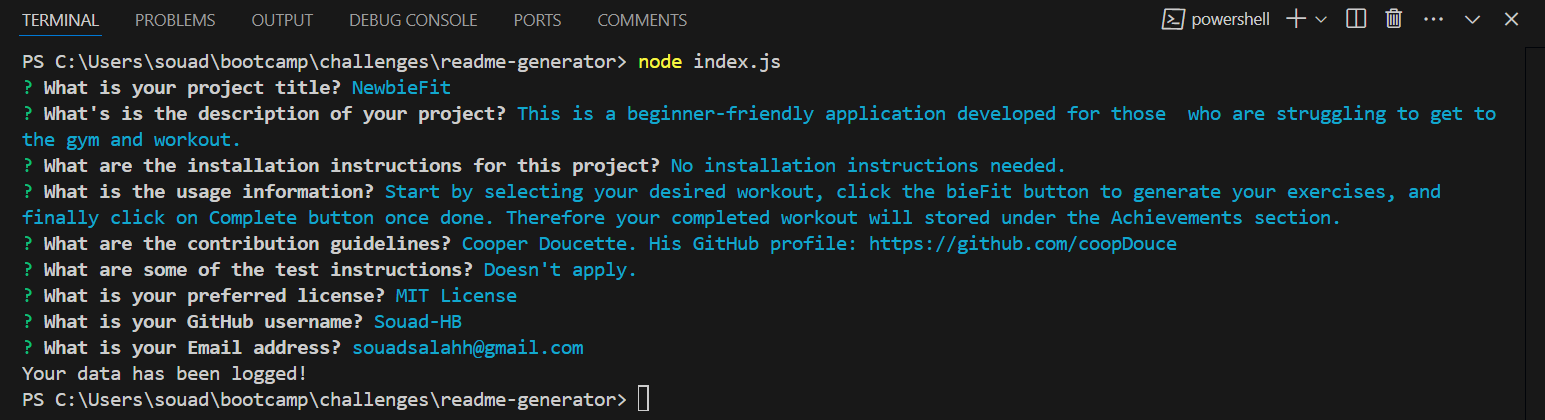
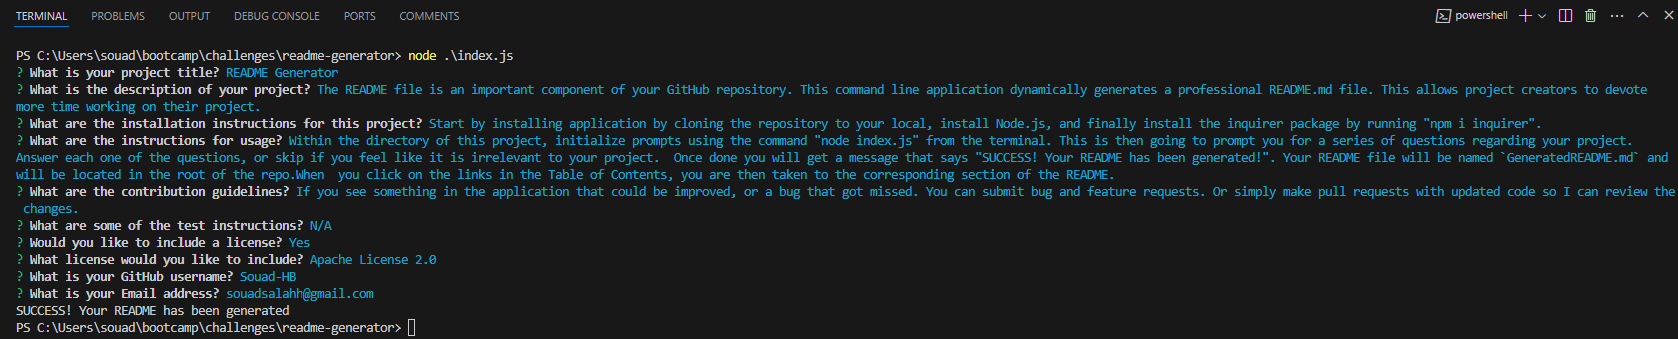
finished the readme and enhanced code

diff --git a/utils/generateMarkdown.js b/utils/generateMarkdown.js
@@ -2,25 +2,28 @@
 // If there is no license, return an empty string
 function renderLicenseBadge(license) {
   let licenseBadge;
-  if (license === 'MIT License') {
-    licenseBadge = '![License: MIT](https://img.shields.io/badge/License-MIT-yellow.svg)';
-  } else if (license === 'GNU General Public License (GPL)') {
-    licenseBadge = '![License: GPL v3](https://img.shields.io/badge/License-GPL%20v3-blue.svg)';
-  } else if (license === 'Apache License 2.0') {
-    licenseBadge = '![License](https://img.shields.io/badge/License-Apache%202.0-blue.svg)';
-  } else if (license === 'BSD Licenses') {
-    licenseBadge = '![License](https://img.shields.io/badge/License-BSD%203--Clause-blue.svg)';
-  } else if (license === 'Creative Commons Licenses') {
-    licenseBadge = '![License: CC BY 4.0](https://licensebuttons.net/l/by/4.0/80x15.png)';
-  } else if (license === 'Mozilla Public License 2.0 (MPL 2.0)') {
-    licenseBadge = '![License](https://img.shields.io/badge/License-MPL%202.0-brightgreen.svg)';
-  } else if (license === 'Eclipse Public License (EPL)') {
-    licenseBadge = '![License](https://img.shields.io/badge/License-EPL%201.0-red.svg)';
-  } else if (license === 'none') {
-    licenseBadge = '';
+  if (!license) {
+    return ``;
   }
-
-  return licenseBadge;
+  else {
+    if (license === 'MIT License') {
+      licenseBadge = `[![License: MIT](https://img.shields.io/badge/License-MIT-yellow.svg)](${renderLicenseLink(license)})`;
+    } else if (license === 'GNU General Public License (GPL)') {
+      licenseBadge = `[![License: GPL v3](https://img.shields.io/badge/License-GPL%20v3-blue.svg)](${renderLicenseLink(license)})`;
+    } else if (license === 'Apache License 2.0') {
+      licenseBadge = `[![License](https://img.shields.io/badge/License-Apache%202.0-blue.svg)](${renderLicenseLink(license)})`;
+    } else if (license === 'BSD Licenses') {
+      licenseBadge = `[![License](https://img.shields.io/badge/License-BSD%203--Clause-blue.svg)](${renderLicenseLink(license)})`;
+    } else if (license === 'Creative Commons Licenses') {
+      licenseBadge = `[![License: CC BY 4.0](https://img.shields.io/badge/License-CC%20BY%204.0-lightgrey.svg)](${renderLicenseLink(license)})`;
+    } else if (license === 'Mozilla Public License 2.0 (MPL 2.0)') {
+      licenseBadge = `[![License](https://img.shields.io/badge/License-MPL%202.0-brightgreen.svg)](${renderLicenseLink(license)})`;
+    } else if (license === 'Eclipse Public License (EPL)') {
+      licenseBadge = `[![License](https://img.shields.io/badge/License-EPL%201.0-red.svg)](${renderLicenseLink(license)})`;
+    }
+    return licenseBadge
+  }
+  ;
 }
 
 // Function that returns the license link
@@ -48,23 +51,18 @@ function renderLicenseLink(license) {
   else if (license === 'Eclipse Public License (EPL)') {
     licenseLink = 'https://opensource.org/licenses/EPL-1.0';
   }
-  else if (license === 'none') {
-    licenseLink = '';
-  }
-
   return licenseLink;
 }
 
 // Function that returns the license section of README
 // If there is no license, return an empty string
 function renderLicenseSection(license) {
-  const licenseLink = renderLicenseLink(license);
-  if (license === 'none') {
-    return '';
+  if (!license) {
+    return ``;
   }
   else {
-    return `This project is licensed under the ${license}. See the link for details: ${licenseLink}`;
-}
+    return `This project is licensed under the ${license}. To learn more about this means, click the license button at the top.`;
+  }
 }
 
 // Function to generate markdown for README
@@ -92,7 +90,6 @@ ${data.installation}
 ## Usage
 
 ${data.usage}
-
 
 ## License
 

diff --git a/index.js b/index.js
@@ -2,16 +2,18 @@
 import inquirer from 'inquirer';
 import fs from 'fs';
 import generateMarkdown from './utils/generateMarkdown.js';
-const fileName = 'SampleREADME.md';
+const fileName = 'GeneratedREADME.md';
+
 // Array of questions for user input
 const questions = [
     "What is your project title?",
-    "What's is the description of your project?",
+    "What is the description of your project?",
     "What are the installation instructions for this project?",
-    "What is the usage information?",
+    "What are the instructions for usage?",
     "What are the contribution guidelines?",
     "What are some of the test instructions?",
-    "What is your preferred license?",
+    "Would you like to include a license?",
+    "What license would you like to include?",
     "What is your GitHub username?",
     "What is your Email address?",
 ];
@@ -19,7 +21,7 @@ const questions = [
 // Function to write README file
 function writeToFile(fileName, data) {
     fs.writeFile(fileName,(data), (err) => 
-        err ? console.error(err) : console.log('Your data has been logged!')); 
+        err ? console.error(err) : console.log('SUCCESS! Your README has been generated')); 
 }
 
 // Function to initialize app
@@ -57,19 +59,32 @@ function init() {
             name: 'tests',
         },
         {
-            type: 'list',
+            type: 'confirm',
             message: questions[6],
-            choices: ['MIT License', 'GNU General Public License (GPL)', 'Apache License 2.0', 'BSD Licenses', 'Creative Commons Licenses', 'Mozilla Public License 2.0 (MPL 2.0)', 'Eclipse Public License (EPL)', 'none'], 
-            name: 'license',
+            name: 'confirmLicense',
+            default: false,
         },
         {
-            type: 'input',
+            type: 'list',
             message: questions[7],
-            name: 'github',
+            choices: ['MIT License', 'GNU General Public License (GPL)', 'Apache License 2.0', 'BSD Licenses', 'Creative Commons Licenses', 'Mozilla Public License 2.0 (MPL 2.0)', 'Eclipse Public License (EPL)'], 
+            name: 'license',
+            when: ({confirmLicense}) => {
+                if (confirmLicense) {
+                    return true;
+                } else {
+                    return false;
+                }
+            }
         },
         {
             type: 'input',
             message: questions[8],
+            name: 'github',
+        },
+        {
+            type: 'input',
+            message: questions[9],
             name: 'email',
         },
     ])

diff --git a/README.md b/README.md
@@ -1,29 +1,27 @@
-# README-Generator
+# README Generator
 
 ## Description
-This command line application dynamically generates a professional README.md file.This allows project creators to devote more time working on their project. 
-Check out the `SampleREADME.md` in this repository as an example.
+The README file is an important component of your GitHub repository. This command line application dynamically generates a professional README.md file. This allows project creators to devote more time working on their project. 
 
 ## Installation
-- Install the application by cloning the repo down to your local.
+- Install the application by cloning the repository to your local.
 - Install Node.js
 - Install the inquirer package using "npm i inquirer" from the terminal on the application folder's path.
 
 ## Usage
-- Make sure you are under the path of the application's folder and run: "node index.js"
-- This is then going to prompt you for a series of questions regarding your project. Answer each one of the questions. or skip if you feel like it is irrelevant to your project. 
-- Once done you will get a message that says "Your data has been logged!". 
-- Your README file will be named `SampleREADME.md` and will be located in the root of the repo.
+- Within the directory of this project, initialize prompts using the command "node index.js" from the terminal.
+- This is then going to prompt you for a series of questions regarding your project. Answer each one of the questions, or skip if you feel like it is irrelevant to your project. 
+- Once done you will get a message that says "SUCCESS! Your README has been generated!". 
+- Your README file will be named `GeneratedREADME.md` and will be located in the root of the repo.
 - When you click on the links in the Table of Contents, you are then taken to the corresponding section of the README.
 
-The below screenshots elaborate on what questions are prompted, how a sample README file can be generated and where it is located.
-
+The below screenshot elaborates on what questions can be prompted. A project repo was used as an example.
 
 ![alt text](assets/images/Prompts.png)
 
-![alt text](assets/images/GeneratedREADME.png)
+## Demonstration
+Watch this [demo](https://app.screencastify.com/v3/watch/tXvjoGPMZqdSHYvTtunb) to see the README Generator in full action. 
 
-## Demo Link
 
 
  
